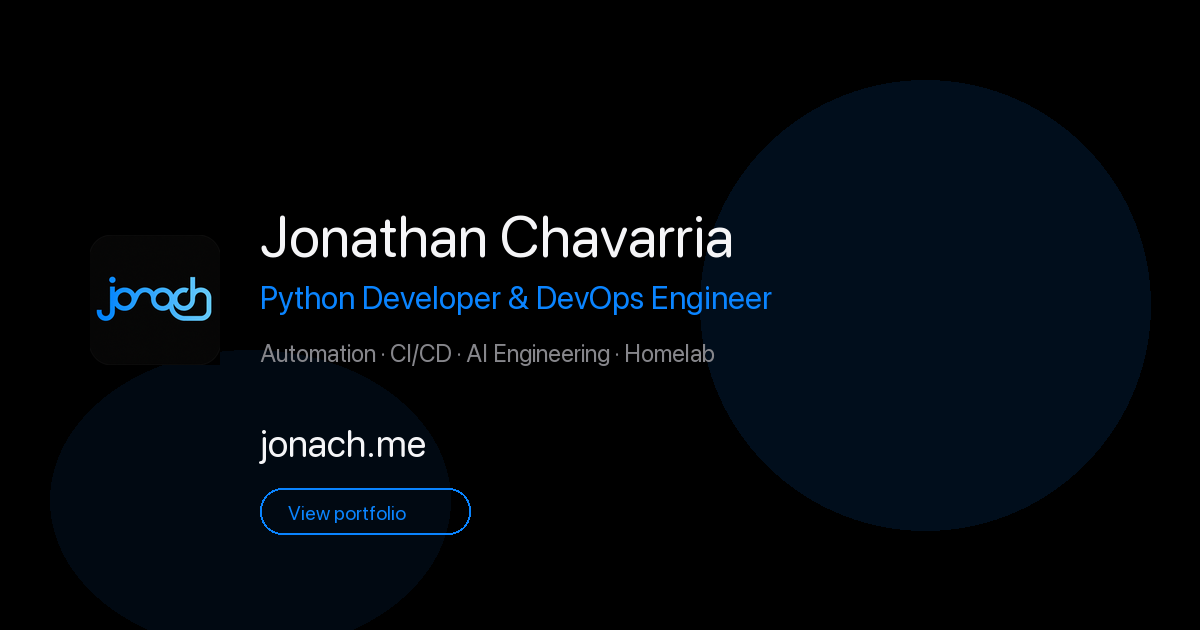
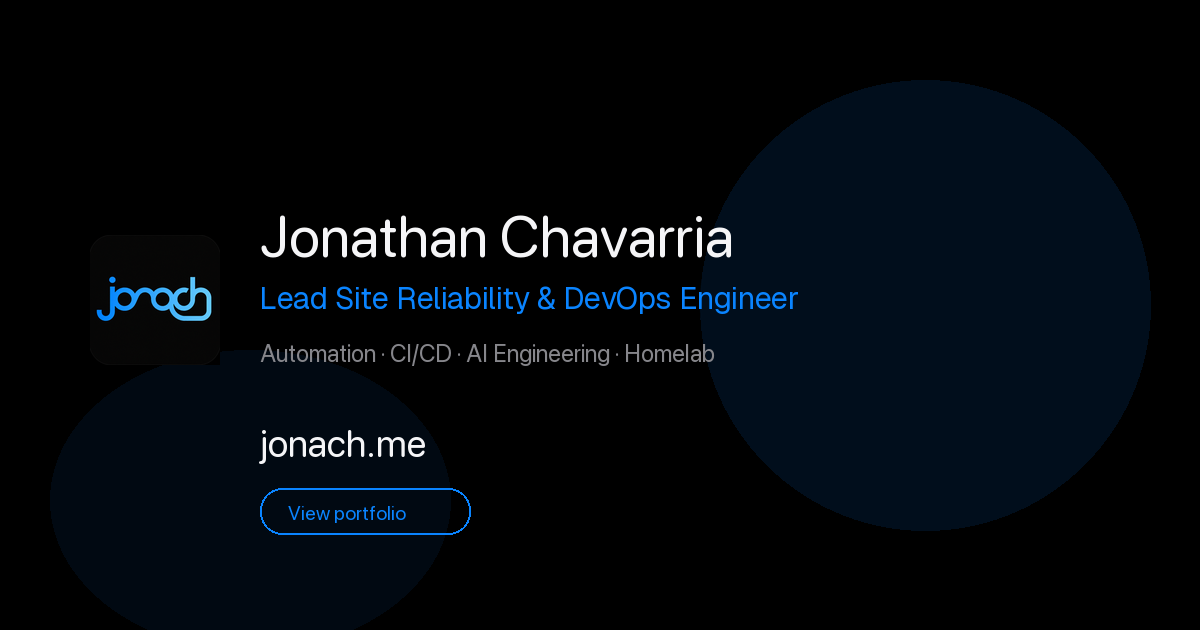
chore: sync site with updated CV (Keysight Lead SRE role)
- Add Keysight Lead Site Reliability Engineer (SRE) experience and logo
- Update Intel (via Net2Source) and Intel SDET entries to match the CV
- Regroup skills and label cloud/container tools as personal projects
- Update hero, about, SEO metadata and Open Graph image title

Changed region(s): [[0.2158, 0.4524, 0.6783, 0.5127]]

diff --git a/src/shared/config/profile.config.ts b/src/shared/config/profile.config.ts
@@ -8,9 +8,9 @@ import type {
 
 export const PROFILE_DATA: Profile = {
   name: "Jonathan Chavarria",
-  title: "Python Developer & DevOps Engineer",
+  title: "Lead Site Reliability & DevOps Engineer",
   summary:
-    "Python Developer and DevOps Engineer with 5+ years building automation, CI/CD, observability, and reliability tooling in Intel engineering environments. I focus on Cloud, DevOps, and AI Engineering: turning platform operations and production support into automated workflows, AI-assisted troubleshooting, and scalable developer tools backed by hands-on AWS, Terraform, and Kubernetes projects.",
+    "Lead Site Reliability Engineer (SRE) and DevOps Engineer with 6+ years building CI/CD, automation, observability, and reliability tooling for enterprise platforms at Keysight and Intel. I'm currently leading a large-scale DevSecOps modernization of Jenkins pipelines for EU Cyber Resilience Act (CRA) compliance, and I build AI-powered tooling (RAG assistants, MCP servers, LLM agents) while deepening my cloud/IaC skills through hands-on AWS, Terraform, and Kubernetes personal projects.",
   contact: {
     email: "jonach1998@gmail.com",
     phone: "+506 71893669",
@@ -22,18 +22,32 @@ export const PROFILE_DATA: Profile = {
 
 export const WORK_EXPERIENCE: readonly WorkExperience[] = [
   {
-    title: "DevOps Engineer",
-    company: "Net2Source",
-    logo: "/logos/net2source.png",
-    location: "Heredia, Costa Rica",
-    startDate: "Mar 2026",
+    title: "Lead Site Reliability Engineer (SRE)",
+    company: "Keysight Technologies (via Insight Global)",
+    logo: "/logos/keysight.svg",
+    location: "Remote, Costa Rica",
+    startDate: "Jul 2026",
     endDate: "Present",
     isCurrent: true,
     achievements: [
-      "Develop Python automation for LDAP directory-service integration and internal group synchronization, reducing manual administration across enterprise developer platforms.",
-      "Build Python data-analysis and operational-monitoring workflows that help identify root causes faster and support data-informed incident resolution.",
-      "Maintain and troubleshoot CI/CD and artifact-management tooling with JFrog Artifactory, Jenkins, GitHub Enterprise/1Source, Docker, and Copilot in an Intel engineering environment.",
-      "Build AI-assisted troubleshooting and proactive monitoring tooling with LLM workflows, ELK/Elasticsearch, and MCP-style integrations to scale support knowledge and surface platform issues earlier.",
+      "Lead a distributed SRE/DevOps team (India, Brazil) in a DevSecOps program modernizing 1,000+ Jenkins/CloudBees CI pipelines for EU Cyber Resilience Act (CRA) compliance with the latest Jenkins Shared Library, JFrog CLI v2, and build-info provenance in JFrog Artifactory.",
+      "Built automation with GitHub Copilot on the Jira/Confluence Cloud, Jenkins, and Bitbucket REST APIs that replaced a manual spreadsheet with a live Confluence dashboard (throughput, cycle time, forecast) and Jira-vs-pipeline drift checks.",
+      "Standardized the team on GitHub Copilot after evaluating Claude Code, to reduce AI licensing costs; use it daily with MCP integrations (Jira, Confluence, Bitbucket) and LLM-based PR review.",
+    ],
+  },
+  {
+    title: "DevOps Engineer",
+    company: "Intel Corporation (via Net2Source)",
+    logo: "/logos/net2source.png",
+    location: "Heredia, Costa Rica",
+    startDate: "Mar 2026",
+    endDate: "Jul 2026",
+    isCurrent: false,
+    achievements: [
+      "Automated cleanup for Intel's multi-site JFrog Artifactory in Python (REST API, PostgreSQL), decommissioning unused repositories and clearing empty folders from a federated repository, and drove storage governance with repository owners.",
+      "Designed a RAG-based support assistant on Intel's internal GenAI platform (Claude Sonnet, pgvector) grounded in the team's Confluence knowledge base, with cited sources and guardrails, to help L2 resolve tickets without escalating to L3.",
+      "Built an ELK/Elasticsearch MCP server so AI agents can query Artifactory logs and metrics in natural language, and designed a read-only proactive monitoring agent with prompt guardrails.",
+      "Built the team's vulnerability remediation plan for Wiz, Semgrep, Dependabot, and Entra ID findings prioritized by severity and SLA, shipping upgrades that closed critical and high CVEs in an Azure Functions service; developed a pytest-covered, dry-run-by-default tool migrating Artifactory groups to LDAP-backed IAM entitlements.",
     ],
   },
   {
@@ -45,12 +59,10 @@ export const WORK_EXPERIENCE: readonly WorkExperience[] = [
     endDate: "Jun 2025",
     isCurrent: false,
     achievements: [
-      "Served as Product Owner and Technical Lead (Scrum) for a 6-engineer team on a next-gen Xeon product, delivering every milestone on schedule despite repeated timeline pull-ins; earned multiple leadership and performance recognitions.",
       "Owned the team's CI/CD infrastructure: automated unit/integration testing, static analysis, code-standard checks, and automated code-review suggestions, becoming the cross-product reference other CI/CD owners replicated.",
-      "Created a centralized Python/Bash automation toolkit on GitHub (SOLID/OOP) adopted by PPV teams across countries, including one-command platform-boot automation that replaced manual EFI/OS steps and became the cross-team standard.",
-      "Built a product-agnostic Python + SQL (Teradata) data standard to extract and visualize large operational data volumes for Product Health Indicators (PHIs), cutting retest and test time; adopted by engineering and operations.",
-      "Integrated and validated CPU test programs released to factories and run on millions of units; reduced DPM (Defects Per Million) through test optimization and architecture-level failure debugging, raising yield.",
-      "Led a programming upskilling program (trainings, assessments, mentorship) that raised ~60% of the team to advanced level; mentored engineers, including one promoted to Product Owner.",
+      "Created a Python/Bash automation toolkit (SOLID/OOP) adopted by validation teams across countries, including one-command platform-boot automation that replaced manual EFI/OS steps and became the cross-team standard.",
+      "Served as Product Owner and Technical Lead (Scrum) for a 6-engineer team on a next-gen Xeon product, delivering every milestone on schedule despite repeated pull-ins; led a programming upskilling program and mentored engineers.",
+      "Built a product-agnostic Python + SQL (Teradata) data standard to extract and visualize large operational data volumes for Product Health Indicators, cutting retest and test time; adopted by engineering and operations.",
     ],
   },
   {
@@ -165,17 +177,20 @@ export const SKILLS: readonly SkillCategory[] = [
     items: ["Python (Advanced)", "TypeScript", "Bash/Shell", "SQL"],
   },
   {
-    name: "DevOps & Containers",
+    name: "CI/CD & DevSecOps",
     items: [
-      "Docker",
-      "Docker Compose",
-      "Kubernetes (hands-on)",
+      "Jenkins / CloudBees CI",
       "GitHub Actions",
-      "Jenkins",
       "JFrog Artifactory",
-      "GitHub Enterprise / 1Source",
+      "GitHub Enterprise",
+      "Bitbucket",
       "Git LFS",
       "CI/CD Pipelines",
+      "Supply-chain Security",
+      "Wiz",
+      "Semgrep",
+      "Dependabot",
+      "Azure (Entra ID, Functions)",
     ],
   },
   {
@@ -187,6 +202,7 @@ export const SKILLS: readonly SkillCategory[] = [
       "RAG",
       "OpenAI-compatible APIs",
       "Prompt Engineering",
+      "AI Coding Agents (GitHub Copilot, Claude Code, Cursor)",
       "n8n",
       "Test Automation",
     ],
@@ -196,12 +212,30 @@ export const SKILLS: readonly SkillCategory[] = [
     items: ["FastAPI", "Flask", "NestJS", "Next.js", "Node.js", "RESTful APIs"],
   },
   {
-    name: "Cloud & IaC (hands-on)",
-    items: ["AWS (ECS Fargate, ECR, EFS, IAM, EventBridge)", "Terraform", "LocalStack"],
+    name: "Cloud & Containers (personal projects)",
+    items: [
+      "AWS (ECS Fargate, ECR, EFS, IAM, EventBridge)",
+      "Terraform",
+      "Kubernetes",
+      "Docker",
+      "Docker Compose",
+      "LocalStack",
+    ],
   },
   {
-    name: "Observability & Monitoring",
-    items: ["Elasticsearch / ELK", "Kibana", "Prometheus", "Grafana", "cAdvisor", "Dynatrace", "Uptime Kuma"],
+    name: "Observability & SRE",
+    items: [
+      "Elasticsearch / ELK",
+      "Kibana",
+      "Prometheus",
+      "Grafana",
+      "cAdvisor",
+      "Dynatrace",
+      "Uptime Kuma",
+      "RCA",
+      "Runbooks",
+      "Toil Automation",
+    ],
   },
   {
     name: "Networking & Self-Hosting",
@@ -215,7 +249,7 @@ export const SKILLS: readonly SkillCategory[] = [
   },
   {
     name: "Databases & Tools",
-    items: ["PostgreSQL", "MySQL", "SQLite", "Teradata", "Oracle", "Git", "Jira"],
+    items: ["PostgreSQL", "MySQL", "SQLite", "Teradata", "Oracle", "Git", "Jira / Confluence"],
   },
 ] as const;
 

diff --git a/src/widgets/HeroSection/HeroSection.tsx b/src/widgets/HeroSection/HeroSection.tsx
@@ -12,7 +12,7 @@ export function HeroSection(): React.ReactElement {
       <div className="relative mx-auto max-w-5xl px-6 text-center sm:px-8 lg:px-12">
         <div className="mb-6 inline-flex items-center gap-2 rounded-full border border-[var(--card-border)] bg-[var(--card-bg)] px-4 py-2 text-sm text-[var(--secondary)] backdrop-blur-xl">
           <span className="h-2 w-2 rounded-full bg-green-500 animate-pulse" />
-          Seeking Cloud · DevOps · AI Engineering roles
+          Open to Cloud · DevOps · AI Engineering opportunities
         </div>
 
         <h1 className="mb-6 text-6xl font-semibold tracking-tight text-foreground sm:text-7xl lg:text-8xl">
@@ -31,7 +31,7 @@ export function HeroSection(): React.ReactElement {
 
         <div className="mb-12 flex flex-wrap justify-center items-center gap-8 text-sm text-[var(--secondary)]">
           <div className="flex items-center gap-2">
-            <span className="text-2xl font-semibold text-foreground">5+</span>
+            <span className="text-2xl font-semibold text-foreground">6+</span>
             <span>Years of experience</span>
           </div>
           <div className="h-4 w-px bg-[var(--border)]" />

diff --git a/src/shared/config/app.config.ts b/src/shared/config/app.config.ts
@@ -9,9 +9,9 @@ export const APP_CONFIG: AppConfig = {
   metadata: {
     title:
       process.env.NEXT_PUBLIC_APP_TITLE ||
-      "Jonathan Chavarria — Python Developer & DevOps Engineer",
+      "Jonathan Chavarria — Lead Site Reliability & DevOps Engineer",
     description:
       process.env.NEXT_PUBLIC_APP_DESCRIPTION ||
-      "Python Developer & DevOps Engineer with 5+ years building automation, CI/CD pipelines, data tooling, and AI-powered workflows. Seeking Cloud, DevOps, and AI Engineering roles — remote or hybrid.",
+      "Lead Site Reliability Engineer (SRE) and DevOps Engineer with 6+ years building CI/CD, automation, observability, and AI-powered tooling. Open to Cloud, DevOps, and AI Engineering opportunities — remote or hybrid.",
   },
 } as const;

diff --git a/src/widgets/AboutSection/AboutSection.tsx b/src/widgets/AboutSection/AboutSection.tsx
@@ -12,11 +12,11 @@ const FOCUS: readonly (readonly [string, string])[] = [
   ],
   [
     "Cloud & IaC",
-    "I build practical cloud experience through AWS ECS/Terraform deployments and a 25+ service homelab.",
+    "I build hands-on cloud experience through personal AWS ECS/Terraform deployments and a 25+ service homelab.",
   ],
   [
     "Technical leadership",
-    "I have led product-owner responsibilities, mentoring, and shared tooling efforts in engineering teams.",
+    "I lead a distributed SRE/DevOps team at Keysight and previously served as Product Owner and Technical Lead at Intel.",
   ],
 ] as const;
 

diff --git a/src/app/layout.tsx b/src/app/layout.tsx
@@ -11,8 +11,12 @@ export const metadata: Metadata = {
     "Jonathan Chavarria",
     "Python Developer",
     "DevOps Engineer",
+    "Site Reliability Engineer",
+    "SRE",
+    "DevSecOps",
     "Cloud Engineer",
     "CI/CD",
+    "Jenkins",
     "Automation",
     "AI",
     "AI Engineering",
@@ -40,7 +44,7 @@ export const metadata: Metadata = {
         url: "/opengraph-image.png",
         width: 1200,
         height: 630,
-        alt: "Jonathan Chavarria — Python Developer & DevOps Engineer",
+        alt: "Jonathan Chavarria — Lead Site Reliability & DevOps Engineer",
       },
     ],
   },

diff --git a/src/widgets/ProjectsSection/ProjectsSection.tsx b/src/widgets/ProjectsSection/ProjectsSection.tsx
@@ -3,7 +3,7 @@ import { Section, Card, Badge } from "@/shared/ui";
 
 export function ProjectsSection(): React.ReactElement {
   return (
-    <Section id="projects" title="Projects">
+    <Section id="projects" title="Personal Projects">
       <div className="grid grid-cols-1 gap-6 lg:grid-cols-2">
         {PROJECTS.map((project) => (
           <Card key={project.name} className="flex flex-col">
